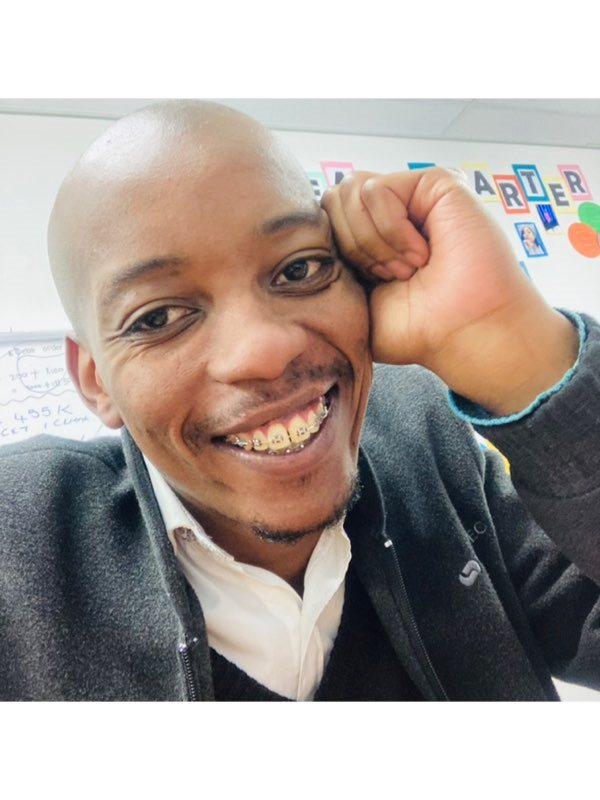
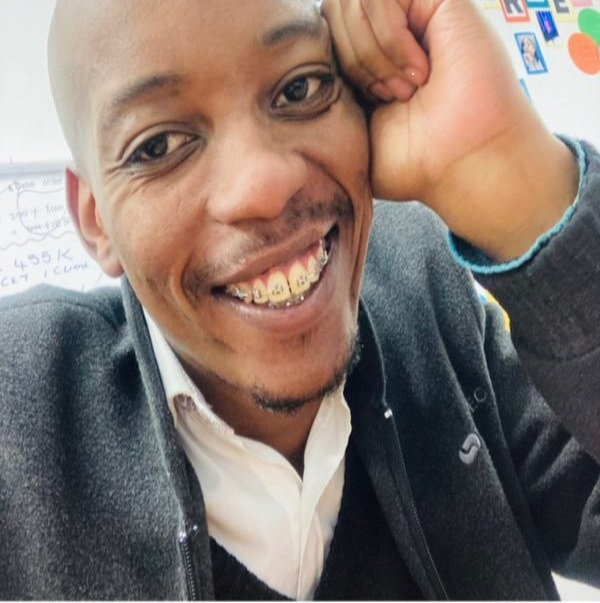
Changes requested

diff --git a/index.html b/index.html
@@ -73,7 +73,7 @@
 
     <section id="contact">
     <h2>Contact</h2>
-    <p>Email:
+    <p>Email
         <a href="mailto:mthunzi.rada@umuzi.org"
         target="mthunzi.rada@umuzi.org">
         <img src="images/google.png" alt="Google Logo" width="18" height="15">
@@ -101,7 +101,6 @@
             <img src="images/facebook.png" alt="facebook" width="15" height="15">
             facebook.com/Mthunzi
             </a></p>
-
 
     </section>
     </div>

diff --git a/styles.css b/styles.css
@@ -150,12 +150,11 @@ section {
 
 .profile-picture img {
 
-    max-width: 100%;
+    max-width: 15%;
 
-    height: auto;
+    height: 30%;
 
 }
-
 
 
 .project {
@@ -164,7 +163,7 @@ section {
 
     flex-direction: column;
 
-    align-items: center;
+    align-items: left;
 
     background-color: #e0e0e0; 
 
